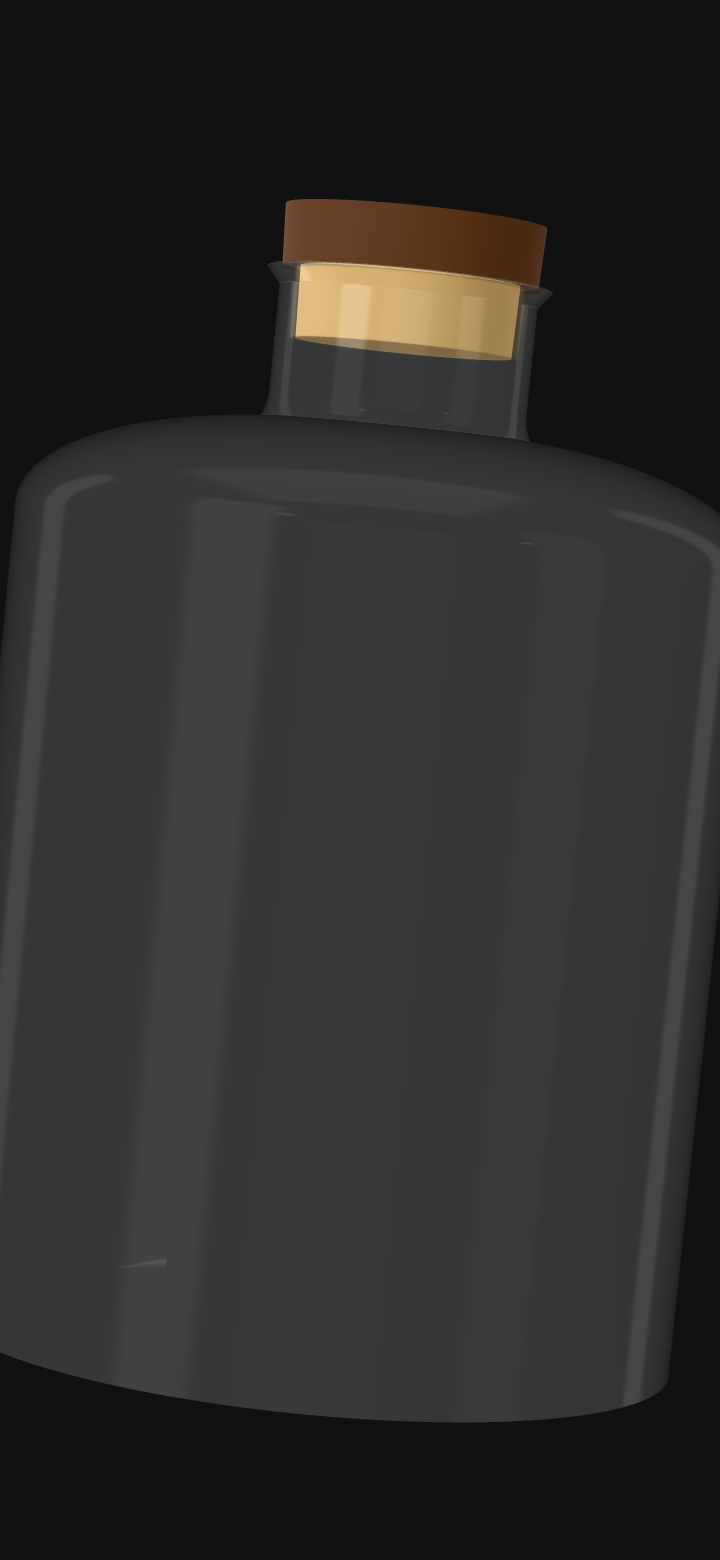
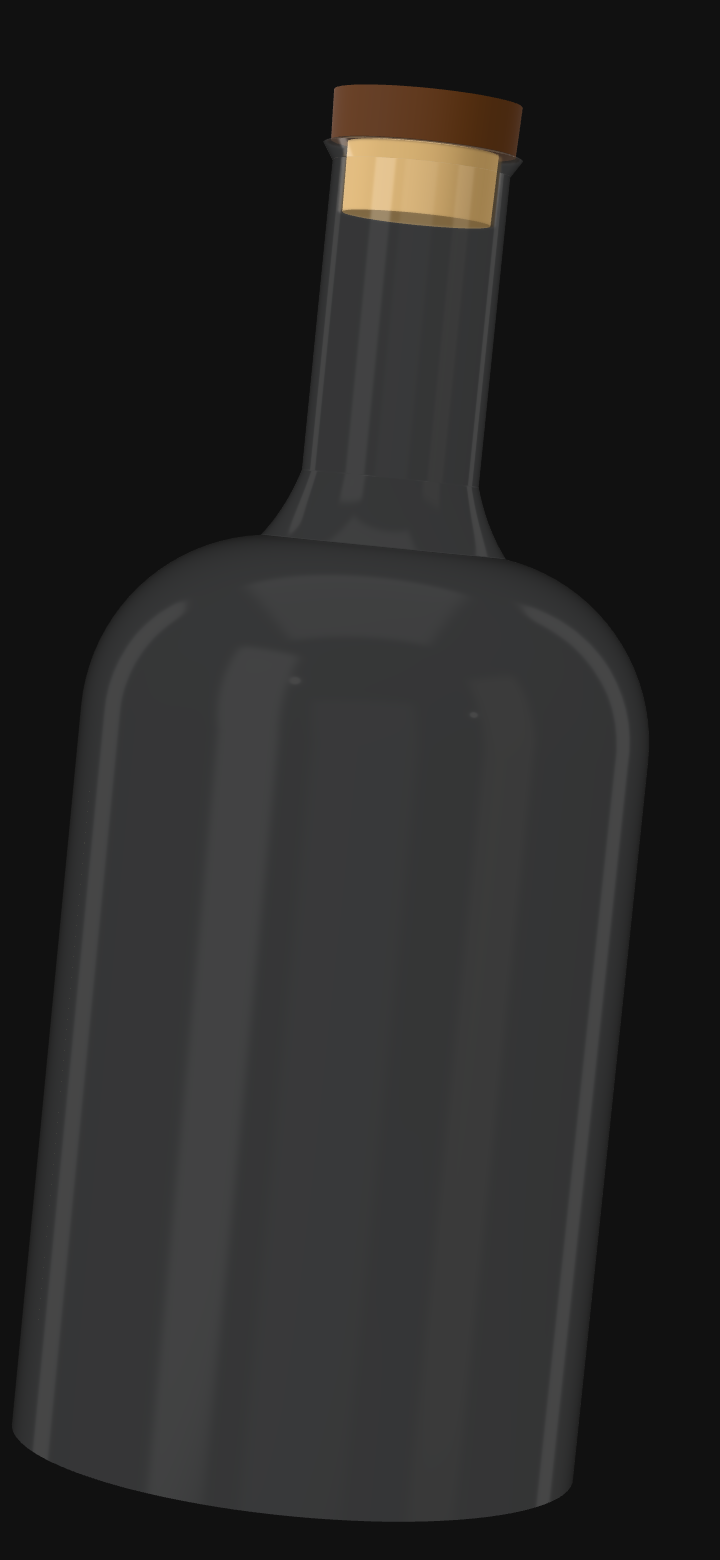
Lengthen the spirit bottle neck and round the shoulder
Match Bäverhojt more closely: neck+cork ≈31% of height, circular-arc
domed shoulder instead of a conical slope, and a shallower heel.

Changed region(s): [[0.0, 0.0308, 1.0, 0.9846]]

diff --git a/src/app/components/beer/stage/canGeometry.ts b/src/app/components/beer/stage/canGeometry.ts
@@ -62,18 +62,19 @@ const DIMENSIONS: Record<CanOnlySize, CanDimensions> = {
  * T-top cork. The cork sits on top of `height`.
  */
 const BOTTLE = {
-  // Body height ≈ diameter: a squat spirit bottle, not a wine bottle.
-  radius: 43.5,
-  height: 126,
-  neckRadius: 15.2,
-  neckHeight: 18,
-  shoulder: 13,
-  heel: 12,
-  lip: 2.5,
-  corkRadius: 15.4,
-  corkHeight: 7,
-  corkPlugRadius: 13,
-  corkPlugDepth: 10,
+  // Bäverhojt: neck+cork ≈30% of total, rounded circular shoulder,
+  // body height ≈ diameter, shallow heel.
+  radius: 43,
+  height: 198,
+  neckRadius: 13.4,
+  neckHeight: 52,
+  shoulder: 36,
+  heel: 18,
+  lip: 3,
+  corkRadius: 14.2,
+  corkHeight: 7.5,
+  corkPlugRadius: 11.4,
+  corkPlugDepth: 12,
   /** Front panel — leaves clear glass on the sides and back. */
   labelArc: Math.PI * 0.44,
 };
@@ -215,24 +216,31 @@ function buildBottleGeometry(labelAspect: number | null): CanGeometry {
   // Outer glass silhouette: push-up bottom, heavy heel, cylinder, shoulder,
   // long neck and a small finishing lip.
   const glassPath = new Path();
-  glassPath.moveTo(0.001, heel * 0.55);
-  glassPath.quadraticCurveTo(radius * 0.35, heel * 0.7, radius * 0.62, 3.2);
-  glassPath.quadraticCurveTo(radius * 0.78, 1.1, radius * 0.86, 0.4);
-  glassPath.quadraticCurveTo(radius * 0.94, 0.05, radius, 0);
+  glassPath.moveTo(0.001, heel * 0.28);
+  glassPath.quadraticCurveTo(radius * 0.28, heel * 0.32, radius * 0.55, 2.4);
+  glassPath.quadraticCurveTo(radius * 0.78, 0.7, radius * 0.9, 0.25);
+  glassPath.quadraticCurveTo(radius * 0.96, 0.05, radius, 0);
   glassPath.lineTo(radius, shoulderStart);
-  glassPath.bezierCurveTo(
-    radius,
-    shoulderStart + shoulder * 0.55,
-    neckRadius + (radius - neckRadius) * 0.55,
-    neckStart - shoulder * 0.08,
-    neckRadius + 0.8,
-    neckStart,
-  );
+  // Near-quarter circular arc: dome the top of the body almost all the way
+  // to the neck radius so there is no conical frustum left.
+  const arcR = Math.min(shoulder * 0.92, radius - neckRadius - 1.2);
+  const arcSteps = 20;
+  const arcMax = Math.PI * 0.455; // ~82°
+  for (let i = 1; i <= arcSteps; i++) {
+    const t = (i / arcSteps) * arcMax;
+    glassPath.lineTo(
+      radius - arcR + arcR * Math.cos(t),
+      shoulderStart + arcR * Math.sin(t),
+    );
+  }
+  const arcEndX = radius - arcR + arcR * Math.cos(arcMax);
+  const arcEndY = shoulderStart + arcR * Math.sin(arcMax);
+  // Tiny soft blend onto the vertical neck.
   glassPath.quadraticCurveTo(
+    neckRadius + (arcEndX - neckRadius) * 0.35,
+    arcEndY + (neckStart - arcEndY) * 0.55,
     neckRadius,
-    neckStart + 1.4,
-    neckRadius,
-    neckStart + 3.2,
+    neckStart + 2.5,
   );
   glassPath.lineTo(neckRadius, lipY - lip);
   glassPath.quadraticCurveTo(
@@ -243,7 +251,7 @@ function buildBottleGeometry(labelAspect: number | null): CanGeometry {
   );
   glassPath.quadraticCurveTo(neckRadius + 1.2, lipY, neckRadius - 0.35, lipY);
   glassPath.lineTo(Math.max(0.001, neckRadius - 2.2), lipY);
-  const glass = lathe(glassPath, 28);
+  const glass = lathe(glassPath, 64);
 
   // Cork: plug down the neck, flat wooden T-top on the lip.
   const cork = new CylinderGeometry(
@@ -263,8 +271,11 @@ function buildBottleGeometry(labelAspect: number | null): CanGeometry {
   corkTop.translate(0, lipY + corkHeight / 2, 0);
 
   // Liquid sits inside the body, just below the shoulder.
-  const liquidRadius = radius - 2.2;
-  const liquidHeight = shoulderStart - heel * 0.7 - 2;
+  const liquidRadius = radius - 2.4;
+  const liquidHeight = Math.max(
+    8,
+    shoulderStart - heel * 0.7 - shoulder * 0.35,
+  );
   const liquid = new CylinderGeometry(
     liquidRadius,
     liquidRadius,
